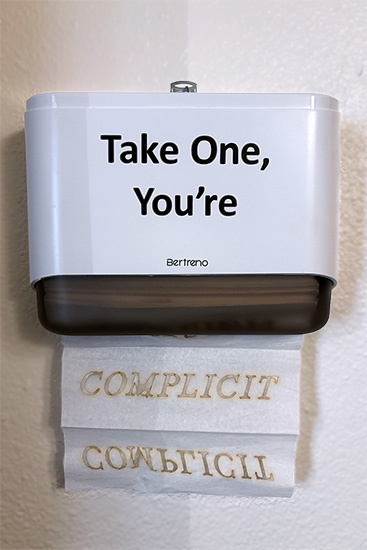
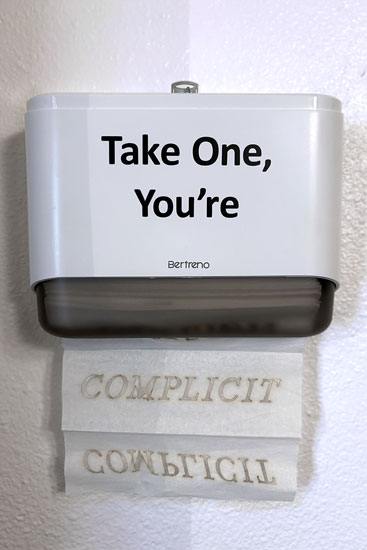
updated tarot page

diff --git a/tarot.html b/tarot.html
@@ -1,0 +1,174 @@
+<!doctype html>
+<html lang="en">
+
+<head>
+  <meta charset="UTF-8" />
+  <meta name="viewport" content="width=device-width, initial-scale=1.0" />
+  <title>xtine burrough</title>
+  <link href="https://cdn.jsdelivr.net/npm/bootstrap@5.3.3/dist/css/bootstrap.min.css" rel="stylesheet" />
+  <link rel="preconnect" href="https://fonts.googleapis.com" />
+  <link rel="preconnect" href="https://fonts.gstatic.com" crossorigin />
+  <link
+    href="https://fonts.googleapis.com/css2?family=Cormorant+Garamond:wght@400;500;600&family=Inter:wght@300;400;500;600&display=swap"
+    rel="stylesheet" />
+  <link rel="stylesheet" href="styles.css" />
+  <style>
+    .card-body p {
+      margin: 0 1.5rem 0 2.25rem;
+    }
+  </style>
+</head>
+
+<body>
+  <nav class="navbar navbar-expand-lg bg-white border-bottom fixed-top">
+    <div class="container">
+      <a class="navbar-brand" href="index.html">xtine burrough</a> >Copper Tarot Cards
+      <button class="navbar-toggler" type="button" data-bs-toggle="collapse" data-bs-target="#mainNav">
+        <span class="navbar-toggler-icon"></span>
+      </button>
+      <div class="collapse navbar-collapse" id="mainNav">
+        <ul class="navbar-nav ms-auto">
+          <li class="nav-item">
+            <a class="nav-link" href="index.html#work">Select Printed Works</a>
+          </li>
+          <li class="nav-item">
+            <a class="nav-link" href="index.html#writing">Writing</a>
+          </li>
+          <li class="nav-item">
+            <a class="nav-link" href="index.html#bio">Bio</a>
+          </li>
+          <li class="nav-item">
+            <a class="nav-link" href="index.html#contact">Contact</a>
+          </li>
+        </ul>
+      </div>
+    </div>
+  </nav>
+  <!-- HERO SECTION-->
+  <section class="hero">
+    <img src="images/tarot-cards-hero.jpg" alt="Featured Artwork" class="hero-image" />
+
+    <div class="hero-overlay"></div>
+    <div class="hero-content">
+      <!-- <p class="hero-kicker">Artist x Educator x Author</p> -->
+
+      <h1 class="hero-title px-5">Hindsight is 20/20: Tarot Cards for Working Women in a Global Pandemic</h1>
+      <h2>In collaboration with Allison Jauregi</h2>
+    </div>
+  </section>
+
+  <!--CARDS/portfolio SECTION-->
+  <section id="portfolio" class="container py-5">
+    <div class="row g-5">
+      <div class="col-md-6"> <!--EACH COL HAS 2 DIVS IN IT SO 3 CLOSINGS AT END-->
+        <div class="card">
+          <img src="images/tarot-theLovers.png" class="card-img-top img-fluid"
+            alt="copper plate">
+          <div class="card-body">
+            <p class="card-text">&ldquo;The Lovers&rdquo;
+              <br><em>Hindsight is 20/20</em> made in collaboration with Allison Jauregi, 2021.
+             <br> <small>16 by 24 inches, copper plates</small></p>
+          </div>
+        </div>
+      </div>
+
+      <div class="col-md-6"> <!--EACH COL HAS 2 DIVS IN IT SO 3 CLOSINGS AT END-->
+        <div class="card">
+          <img src="images/tarot-theMagician.png" class="card-img-top img-fluid"
+            alt="copper plate">
+          <div class="card-body">
+            <p class="card-text">&ldquo;The Magician&rdquo;
+              <br><em>Hindsight is 20/20</em> made in collaboration with Allison Jauregi, 2021.
+             <br> <small>16 by 24 inches, copper plates</small></p>
+          </div>
+        </div>
+      </div>
+
+       <div class="col-md-6"> <!--EACH COL HAS 2 DIVS IN IT SO 3 CLOSINGS AT END-->
+        <div class="card">
+          <img src="images/tarot-theMoon.png" class="card-img-top img-fluid"
+            alt="copper plate">
+          <div class="card-body">
+            <p class="card-text">&ldquo;The Moon&rdquo;
+              <br><em>Hindsight is 20/20</em> made in collaboration with Allison Jauregi, 2021.
+             <br> <small>16 by 24 inches, copper plates</small></p>
+          </div>
+        </div>
+      </div>
+
+     <div class="col-md-6"> <!--EACH COL HAS 2 DIVS IN IT SO 3 CLOSINGS AT END-->
+        <div class="card">
+          <img src="images/tarot-theSun.png" class="card-img-top img-fluid"
+            alt="copper plate">
+          <div class="card-body">
+            <p class="card-text">&ldquo;The Sun&rdquo;
+              <br><em>Hindsight is 20/20</em> made in collaboration with Allison Jauregi, 2021.
+             <br> <small>16 by 24 inches, copper plates</small></p>
+          </div>
+        </div>
+      </div>
+
+       <div class="col-md-6"> <!--EACH COL HAS 2 DIVS IN IT SO 3 CLOSINGS AT END-->
+        <div class="card">
+          <img src="images/tarot-theStar.png" class="card-img-top img-fluid"
+            alt="copper plate">
+          <div class="card-body">
+            <p class="card-text">&ldquo;The Star&rdquo;
+              <br><em>Hindsight is 20/20</em> made in collaboration with Allison Jauregi, 2021.
+             <br> <small>16 by 24 inches, copper plates</small></p>
+          </div>
+        </div>
+      </div>
+
+       <div class="col-md-6"> <!--EACH COL HAS 2 DIVS IN IT SO 3 CLOSINGS AT END-->
+        <div class="card">
+          <img src="images/tarot-temperance.png" class="card-img-top img-fluid"
+            alt="copper plate">
+          <div class="card-body">
+            <p class="card-text">&ldquo;Temperance&rdquo;
+              <br><em>Hindsight is 20/20</em> made in collaboration with Allison Jauregi, 2021.
+             <br> <small>16 by 24 inches, copper plates</small></p>
+          </div>
+        </div>
+      </div>
+
+       <div class="col-md-6"> <!--EACH COL HAS 2 DIVS IN IT SO 3 CLOSINGS AT END-->
+        <div class="card">
+          <img src="images/tarot-theTower.png" class="card-img-top img-fluid"
+            alt="copper plate">
+          <div class="card-body">
+            <p class="card-text">&ldquo;The Tower&rdquo;
+              <br><em>Hindsight is 20/20</em> made in collaboration with Allison Jauregi, 2021.
+             <br> <small>16 by 24 inches, copper plates</small></p>
+          </div>
+        </div>
+      </div>
+
+     
+      <section id="about" class="container p-5">
+        <h2>Hindsight is 20/20: Tarot Cards for Working Women in a Global Pandemic</h2>
+        <h3>Made in Collaboration with Allison Jauregi, 2021</h3>
+        <p>
+          The cards take two forms. The playing cards (approximately 3.75 by 5.75 inches) feature Allison's illustrations 
+          in black matte vinyl on copper sheets with trimmed corners.
+          </p>
+          <p>
+          burrough also fabricated a series of the twelve major arcana in etchings on 16 by 24 inch mirrored-copper plates. 
+          These etchings were made with a technique that combines laser etching, sandblasting, and polishing.
+          </p>
+          <p>
+          One set of playing cards is held in the Special Collections Library at NYU&apos;s Elmer Holmes Bobst Library following burrough&apos;s exhibition, <em>Ceremonial Techne</em> (2021).
+          This work was made in the Machine Shop at UT Dallas in Richardson, Texas with assistance from Machinist Andrew Bittner. See more images on burrough&apos;s <a href = "http://missconceptions.net/tarot/">project page.</a>
+          </p>
+
+      
+
+      </section>
+      <footer id="contact" class="container py-5 border-top">
+      <p>xtineburrough[at]gmail[dot]com</p>
+      <p><a href = "https://www.instagram.com/@xtineburrough" title="instagram" style="border-bottom: 1px solid #3399FF;">@xtineburrough</a></p>
+    </footer>
+      <script src="https://cdn.jsdelivr.net/npm/bootstrap@5.3.3/dist/js/bootstrap.bundle.min.js"></script>
+</body>
+
+</html>

diff --git a/archive-unnamed.html b/archive-unnamed.html
@@ -12,12 +12,17 @@
     href="https://fonts.googleapis.com/css2?family=Cormorant+Garamond:wght@400;500;600&family=Inter:wght@300;400;500;600&display=swap"
     rel="stylesheet" />
   <link rel="stylesheet" href="styles.css" />
+  <style>
+    .card-body p {
+      margin: -1rem 1.5rem 0 2.25rem;
+    }
+  </style>
 </head>
 
 <body>
   <nav class="navbar navbar-expand-lg bg-white border-bottom fixed-top">
     <div class="container">
-      <a class="navbar-brand" href="index.html">xtine burrough</a> >Cyanotype Prints
+      <a class="navbar-brand" href="index.html">xtine burrough</a> >An Archive of Unnamed Women Slickrock Prints
       <button class="navbar-toggler" type="button" data-bs-toggle="collapse" data-bs-target="#mainNav">
         <span class="navbar-toggler-icon"></span>
       </button>
@@ -41,13 +46,13 @@
   </nav>
   <!-- HERO SECTION-->
   <section class="hero">
-    <img src="images/cyan-pickUpEveryStitch-hero-new.jpg" alt="Featured Artwork" class="hero-image" />
+    <img src="images/archive-unnamedwomen-hero.jpg" alt="Featured Artwork" class="hero-image" />
 
     <div class="hero-overlay"></div>
     <div class="hero-content">
       <!-- <p class="hero-kicker">Artist x Educator x Author</p> -->
 
-      <h1 class="hero-title">Cyanotype Prints</h1>
+      <h1 class="hero-title">An Archive of Unnamed Women</h1>
     </div>
   </section>
 
@@ -56,22 +61,24 @@
     <div class="row g-5">
       <div class="col-md-6"> <!--EACH COL HAS 2 DIVS IN IT SO 3 CLOSINGS AT END-->
         <div class="card">
-          <img src="images/cyan-eggOnYourFace-lg.jpg" class="card-img-top img-fluid"
-            alt="cyanotype print digital negatives">
+          <img src="images/archive-unnamed-woman-coffee.png" class="card-img-top img-fluid"
+            alt="slickrock metal ink jet print">
           <div class="card-body">
-            <p class="card-text">&ldquo;Egg On Your Face&rdquo; from <em>The Library of Congress, Remixed </em>series,
-              2012.<br> <small>12 by 9 inches on water color paper</small></p>
+            <p class="card-text">&ldquo;Woman Pouring Coffee&rdquo;
+              <br><em>An Archive of Unnamed Women</em> New York Public Library Digital Collection Edition,
+              2019-ongoing.<br> <small>5 by 7 inches on slickrock metallic paper</small></p>
           </div>
         </div>
       </div>
 
       <div class="col-md-6">
         <div class="card">
-          <img src="images/cyan-aNewLeaseOnLife-lg.jpg" class="card-img-top img-fluid"
-            alt="cyanotype print digital negatives">
+          <img src="images/archive-unnamed-woman-formerslave.png" class="card-img-top img-fluid"
+            alt="slickrock metal ink jet print">
           <div class="card-body">
-            <p class="card-text">&ldquo;A New Lease On Life&rdquo; from <em>The Library of Congress, Remixed
-              </em>series, 2012. <br> <small>12 by 9 inches on water color paper</small></p>
+             <p class="card-text">&ldquo;Former Slave in Alabama&rdquo;
+              <br><em>An Archive of Unnamed Women</em> New York Public Library Digital Collection Edition,
+              2019-ongoing.<br> <small>5 by 7 inches on slickrock metallic paper</small></p>
           </div>
         </div>
       </div>

diff --git a/index.html b/index.html
@@ -116,7 +116,7 @@
          <div class="col-md-6"> <!--EACH COL HAS 3 DIVS IN IT SO 4 CLOSINGS AT END-->
           <a href="cyanotypes.html">
           <div class="card" style="width: 18rem;">
-                 <img src="images/pickUpEveryStitch-small.jpg" class="card-img-top" alt="cyanotype wall hanging">
+                 <img src="images/pickUpEveryStitch-small-new.jpg" class="card-img-top" alt="cyanotype wall hanging">
           </a>
                  <div class="card">
                   <a href="cyanotypes.html">
@@ -126,13 +126,15 @@
           </div>
           </div>
         </div>
-<!-- will add these tomorrow 
+
          <div class="col-md-6"> 
-          <!--will add tomorrow 
+       
             <div class="card" style="width: 18rem;">
                  <img src="images/archive-unnamed-woman-coffee-small.jpg" class="card-img-top" alt="archival print on metallic paper">
           <div class="card">
+             <a href="archive-unnamed.html">
             <div class="card-body"><h3>An Archive of Unnamed Women</h3>
+            </a>
             </div>
           </div>
           </div>
@@ -142,14 +144,16 @@
             <div class="card" style="width: 18rem;">
                  <img src="images/complicit-small.jpg" class="card-img-top" alt="type cut from paper towels">
           <div class="card">
+             <a href="type.html">
             <div class="card-body"><h3>Type in Action</h3>
+            </a>
             </div>
           </div>
           </div>
         </div>
    
     </div>
-    -->
+
     </section>
     <section id="writing" class="container py-2">
       <h2>Writing</h2>
